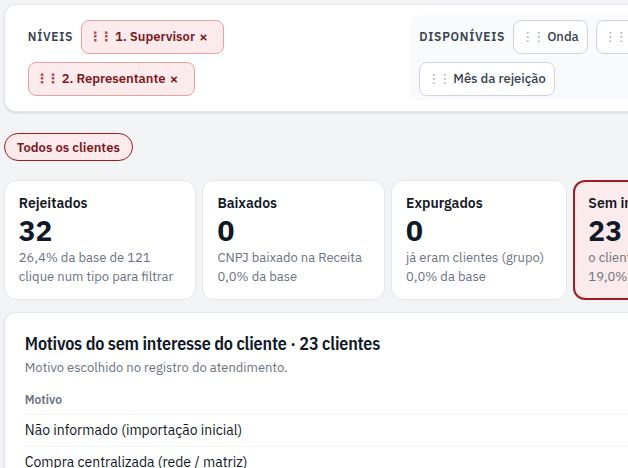
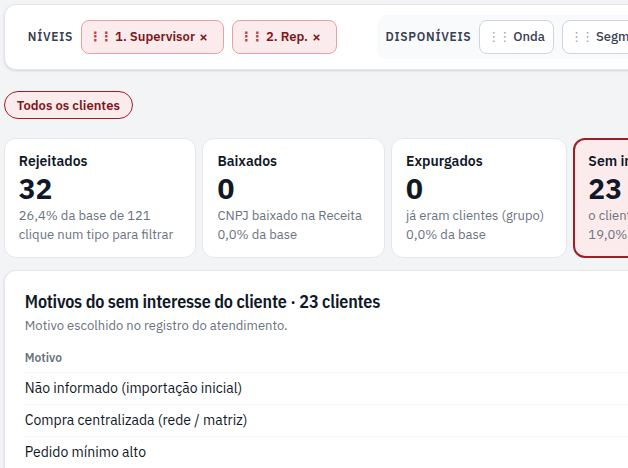
Níveis: representante abreviado como Rep.
- Explorar carteira, Explorar pedidos, Acompanhamento e Rejeitados: Rep., Rep. do pedido, Rep. da carteira
- Excel segue por extenso; Ajuda explica Rep. e Venda na própria carteira?

diff --git a/docs/03-regras-negocio.md b/docs/03-regras-negocio.md
@@ -186,7 +186,7 @@ voltar da ficha, do lote ou pelo menu) e a lista já lida vem do cache (`lerComC
 limpa), sem ler o banco de novo. "Limpar filtros" abre a lista limpa (`?limpo=1`). Explorar carteira, Explorar pedidos,
 Acompanhamento e Rejeitados voltam com a linha escolhida, as linhas abertas e o tipo/etapa.
 
-**Níveis da hierarquia** (Explorar carteira, Explorar pedidos, Acompanhamento e Rejeitados): Níveis e Disponíveis numa linha só, lado a lado; cabendo, tudo numa linha; faltando espaço, as duas partes dividem a linha conforme o tamanho e quebram dentro delas, sem rolagem para o lado. No Explorar pedidos, o nome do nível diz de onde vem a informação: Supervisor da carteira, Representante do pedido, Representante da carteira, Venda na própria carteira?, Cidade/Segmento/Onda do cliente, Grupo de CNPJ, Tipo, Situação e Mês do pedido.
+**Níveis da hierarquia** (Explorar carteira, Explorar pedidos, Acompanhamento e Rejeitados): Níveis e Disponíveis numa linha só, lado a lado; cabendo, tudo numa linha; faltando espaço, as duas partes dividem a linha conforme o tamanho e quebram dentro delas, sem rolagem para o lado. No Explorar pedidos, o nome do nível diz de onde vem a informação: Supervisor da carteira, Rep. do pedido, Rep. da carteira (no Excel, por extenso), Venda na própria carteira?, Cidade/Segmento/Onda do cliente, Grupo de CNPJ, Tipo, Situação e Mês do pedido. Nos níveis, representante aparece abreviado como Rep.
 
 **Municípios, rota e subrota em maiúsculas** (0027, 0028): ficam sempre em maiúsculas, com acento, inclusive nos baixados; a importação da base já grava assim. **Segmento:** "Atacado Perueiro" passa a ser "Atacado" (também nas próximas importações).
 
